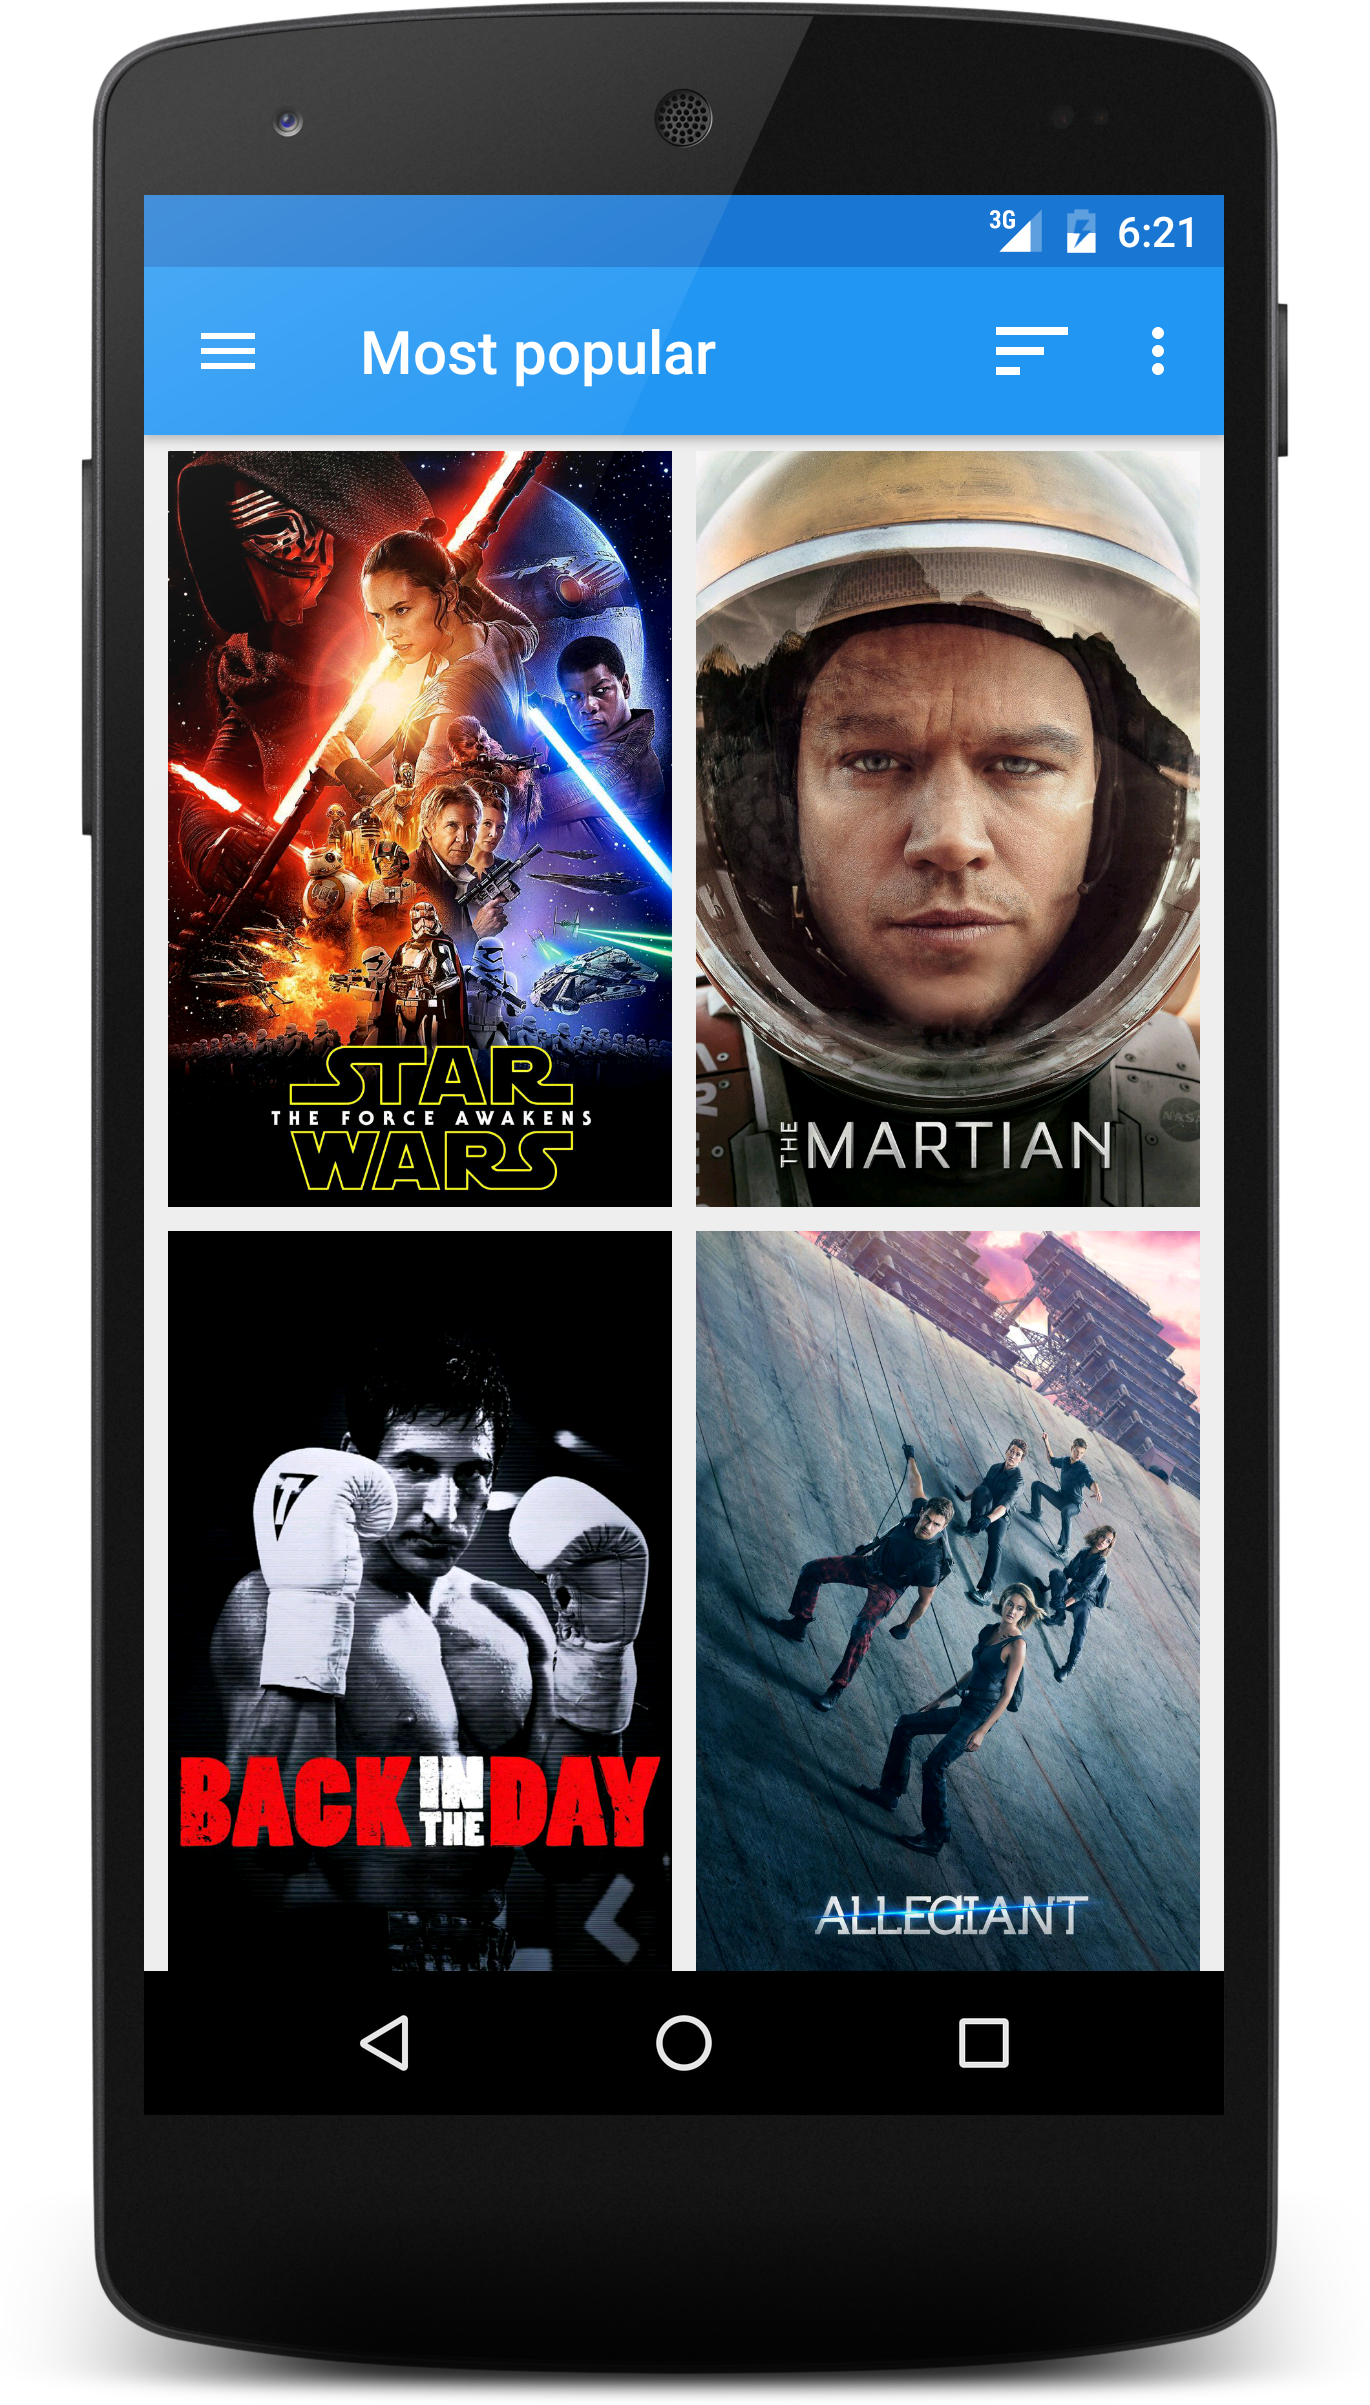
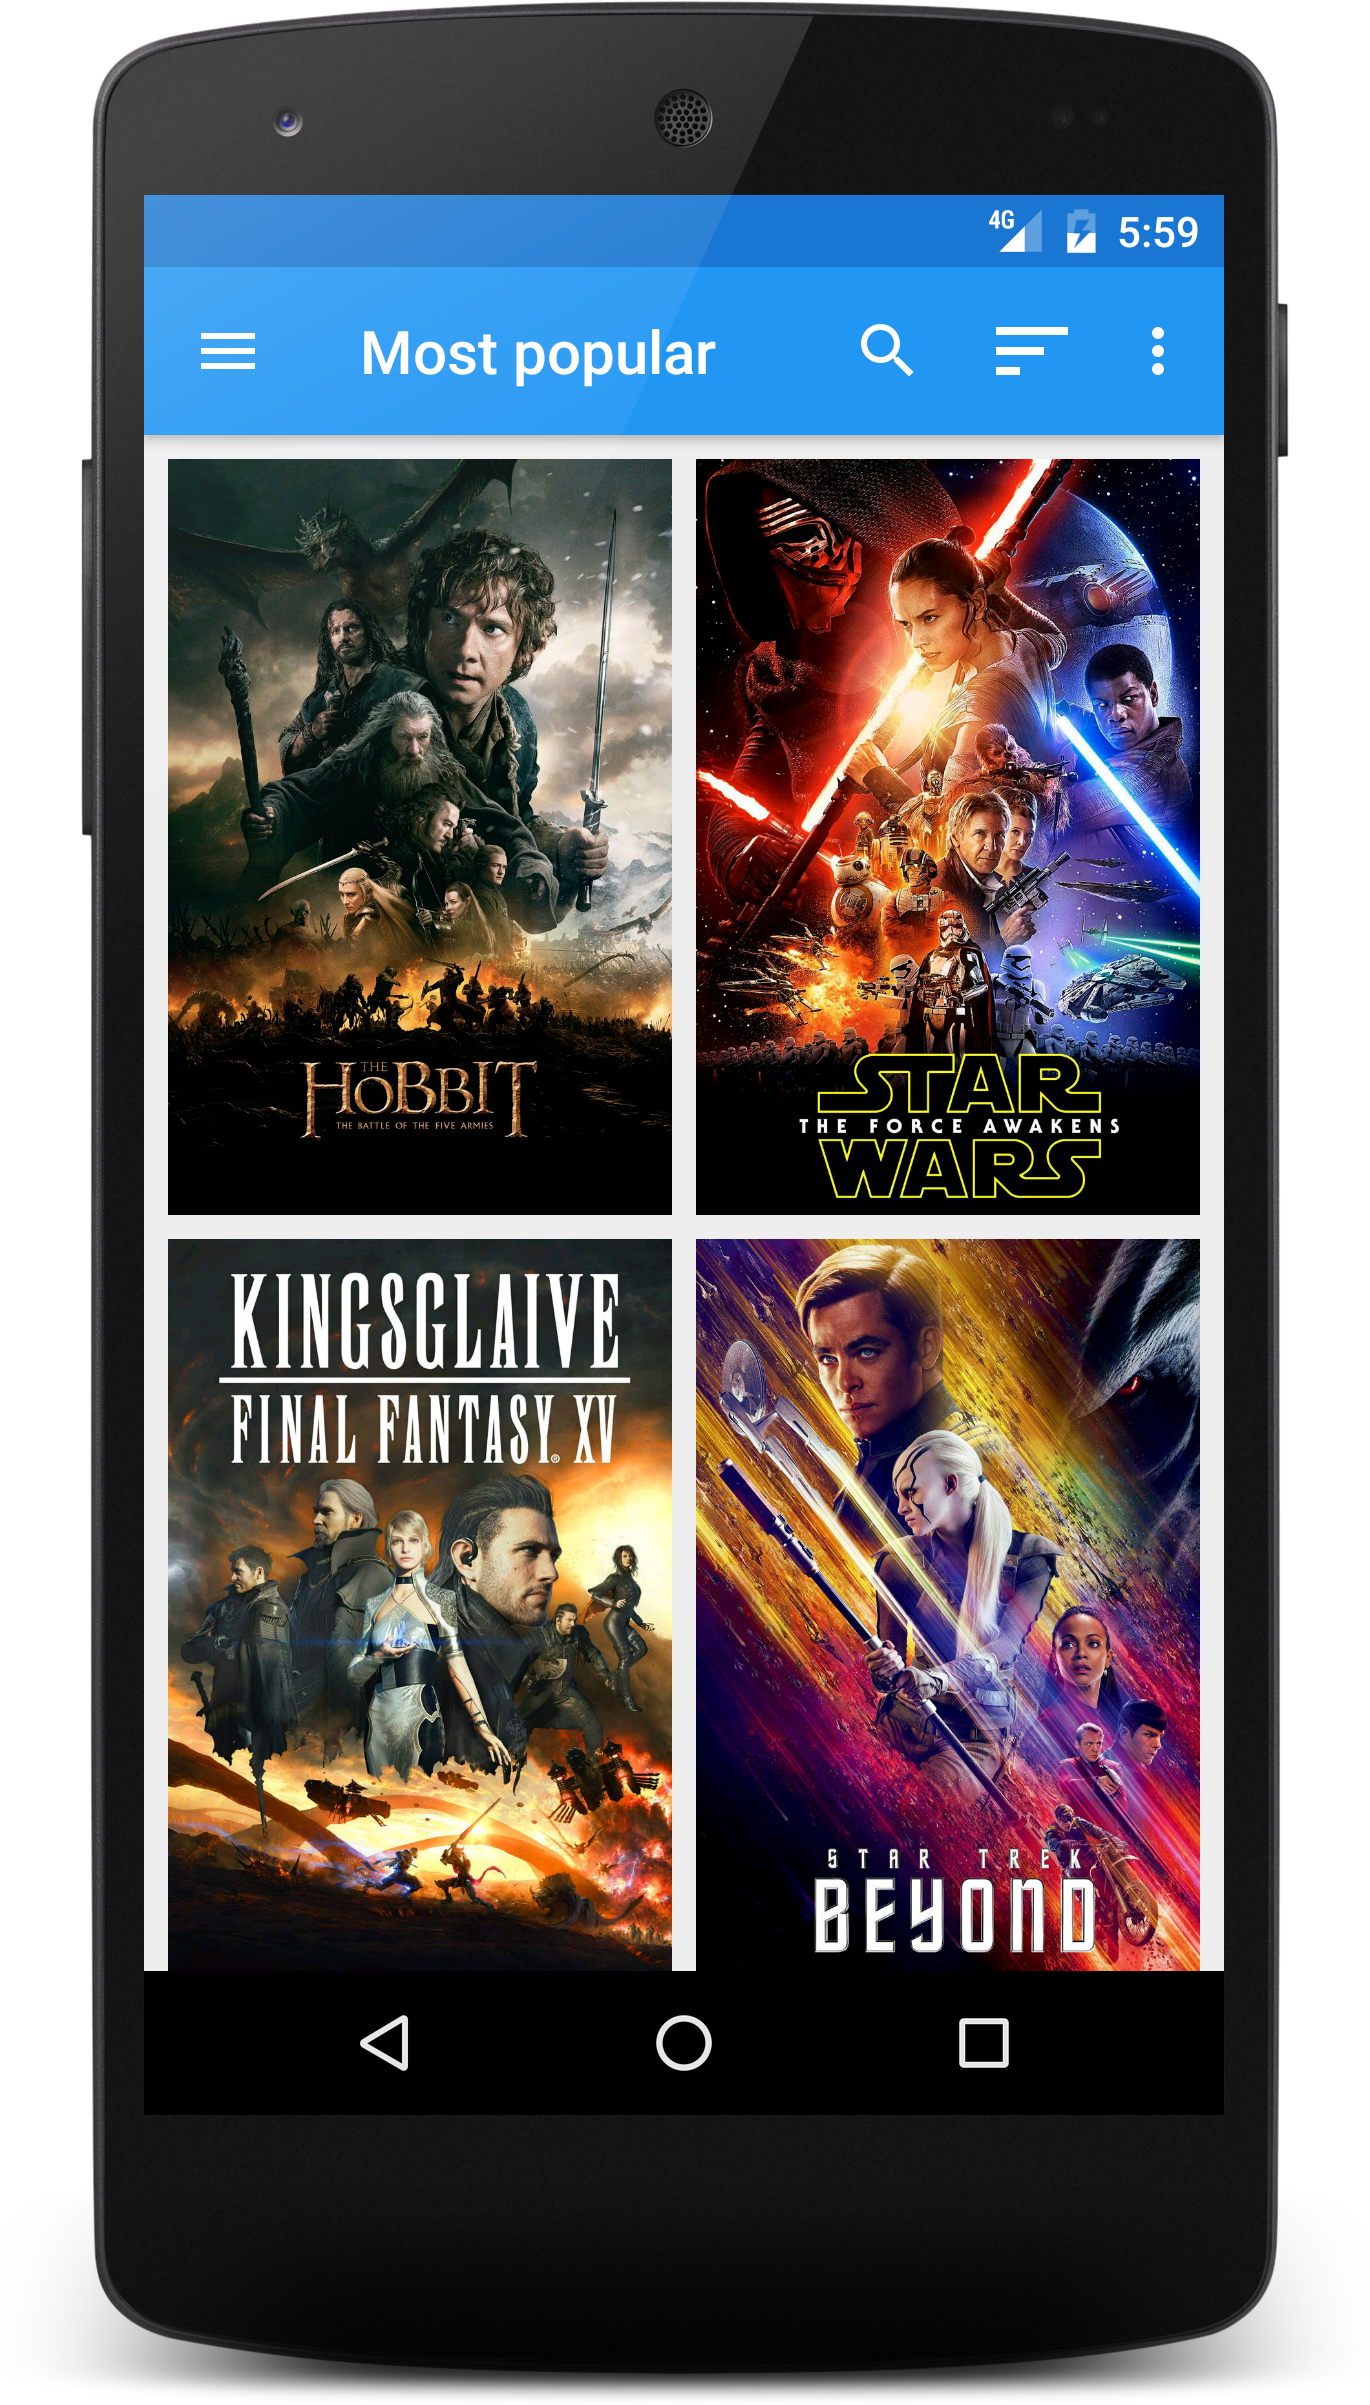
Prepare release v2.1

diff --git a/README.md b/README.md
@@ -14,6 +14,7 @@ This is Project 1 & Project 2 of Udacity's Android Developer Nanodegree.
 - Watch movie trailers and teasers
 - Read reviews from other users
 - Mark movies as favorites
+- Search for movies
 - Offline work
 - Material design
 - UI optimized for phone and tablet
